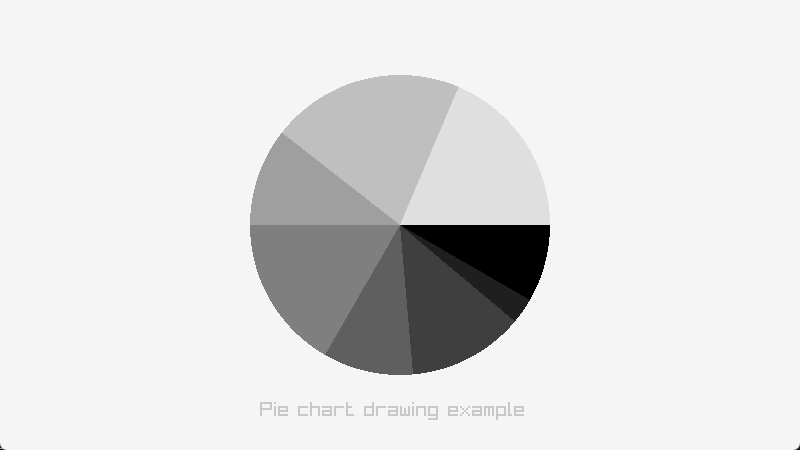
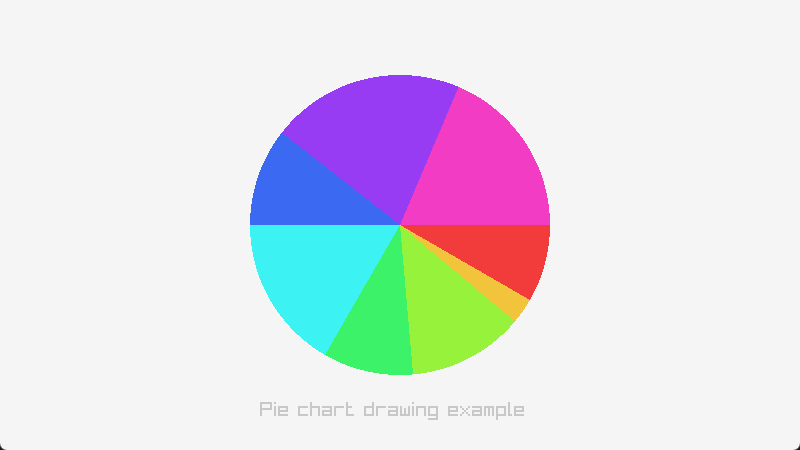
Made the example colorful

Changed region(s): [[0.3125, 0.1556, 0.6875, 0.84]]

diff --git a/examples/shapes/shapes_pie_chart.c b/examples/shapes/shapes_pie_chart.c
@@ -30,7 +30,7 @@ int main(void)
     InitWindow(screenWidth, screenHeight, "raylib [shapes] example - pie chart");
 
     // Pie slice angles (must sum to 360)
-    const int angles[] = { 30, 10, 45, 35, 60, 38, 75, 67 };
+    const float angles[] = { 30.0f, 10.0f, 45.0f, 35.0f, 60.0f, 38.0f, 75.0f, 67.0f };
     const int anglesCount = (int)(sizeof(angles)/sizeof(angles[0]));
 
     const float radius = 150.0f;
@@ -56,14 +56,18 @@ int main(void)
 
             for (int i = 0; i < anglesCount; i++)
             {
-                // Gradient gray color per slice
-                unsigned char gray = (unsigned char)((i/(float)anglesCount)*255.0f);
+                float hue = (i/(float)anglesCount)*360.0f;
+                float sat = 0.75f;
+                float val = 0.95f;
+
+                // Convert HSV to RGBA
+                Color col = ColorFromHSV(hue, sat, val);
 
                 // Draw pie piece using DrawCircleSector()
-                DrawCircleSector(center, radius, lastAngleDeg, lastAngleDeg + (float)angles[i],
-                    segments, (Color){ gray, gray, gray, 255 });
+                DrawCircleSector(center, radius, lastAngleDeg, lastAngleDeg + angles[i],
+                    segments, col);
 
-                lastAngleDeg += (float)angles[i];
+                lastAngleDeg += angles[i];
             }
 
             DrawText("Pie chart drawing example", 260, 400, 20, LIGHTGRAY);
